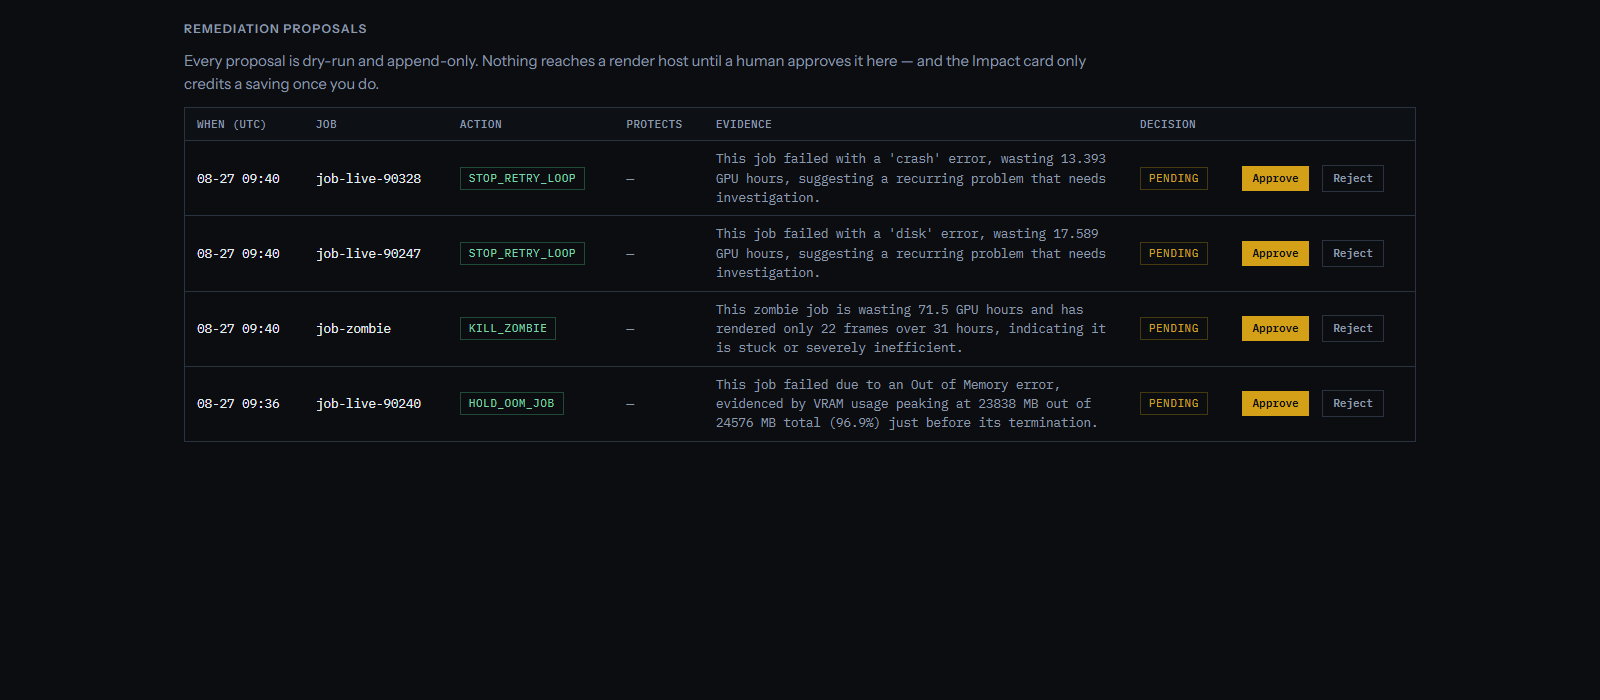
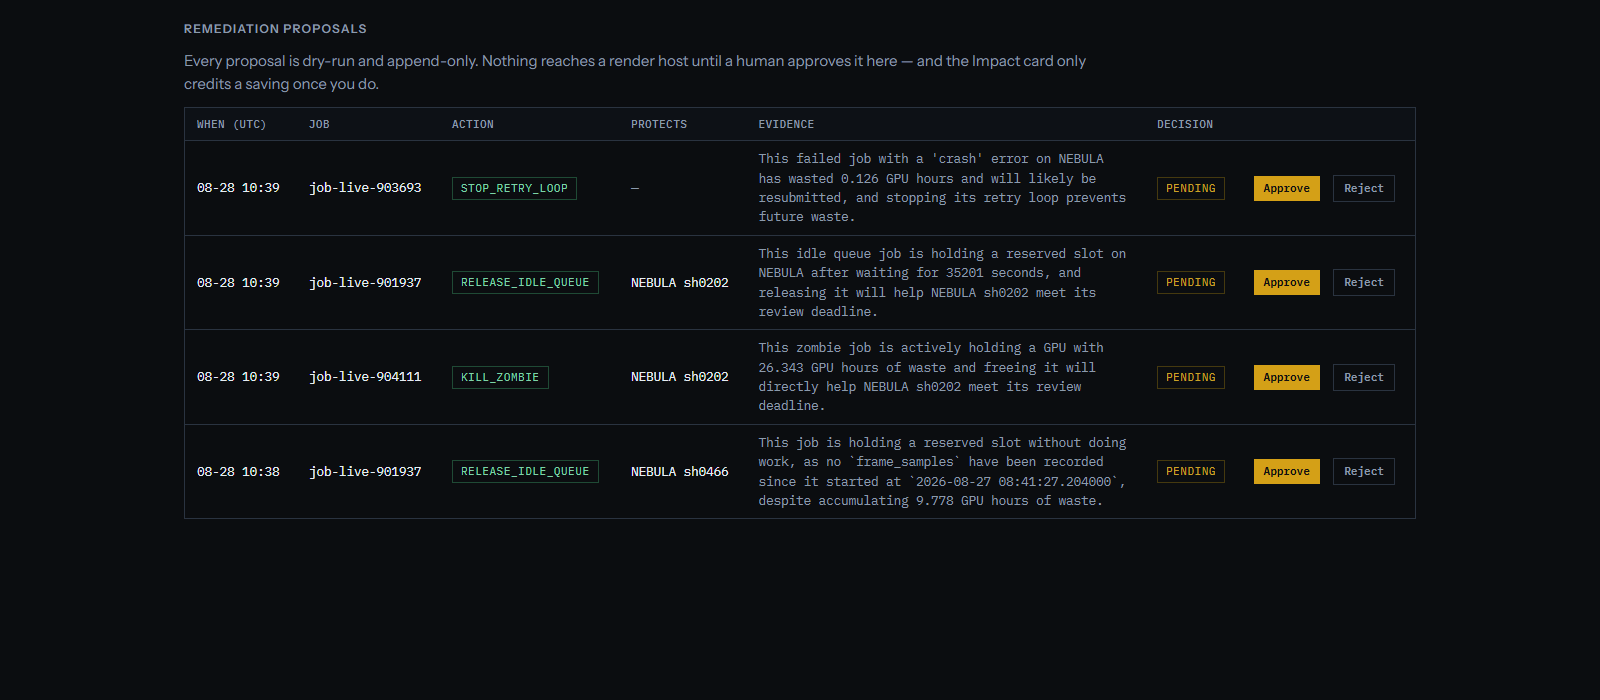
Recapture: the gallery now shows a fix tied to the review it saves.
The proposals table has three rows naming NEBULA sh0202 and sh0466 and one
honest dash on the retry loop that costs money but blocks no delivery, and
the hero above it shows sh0202 as recoverable by freeing slots on NEBULA.
That link between the board and the remediation is the product's whole claim
and this is the first capture where it is visible rather than asserted.

Captions 03 and 08 follow the images: 03 no longer says the Orchestrator
reports protecting nothing, because it no longer does, and 08 says the
PROTECTS column is board-verified. The Action Agent bullet gains the reason
that matters to a judge -- the strongest claim the product makes is the one
the model does not get to assert unchecked.

diff --git a/docs/devpost.md b/docs/devpost.md
@@ -44,7 +44,11 @@ agents on Google Cloud ADK run a fixed detect → decide → act pipeline:
   money, so a zombie on a show with a review in five hours beats a bigger
   overrun on a show with a review tomorrow.
 - The **Action Agent** records dry-run remediations with the evidence and, when
-  the job is blocking a delivery, the shot it protects.
+  the job is blocking a delivery, the shot it protects. That last claim is the
+  strongest thing the product says, so it is the one claim the model does not
+  get to assert unchecked: the shot is verified against the live delivery board
+  before the row is written, and a shot that is comfortably on track gets the
+  claim dropped rather than recorded.
 
 Nothing reaches a render host. A proposal is an auditable record, and the dollar
 figure on the page only moves when a human clicks Approve — an agent finding
@@ -211,12 +215,12 @@ below; the thumbnail should be the first one.
 | --- | --- |
 | `01-dailies-at-risk.png` | The headline is delivery, not cost: shots that will miss review, and how many come back if the stuck GPU slots are released. A quarter-billion telemetry rows behind it. |
 | `02-impact-and-waste.png` | Open waste is what an agent can still change. The full-history figure sizes the problem, annualised against the span actually measured. Approval, not detection, moves the number. |
-| `03-three-agents.png` | Detect → decide → dry-run as an ADK SequentialAgent, so no stage can be skipped. The Orchestrator names the review a fix protects — and says so plainly when it protects none. |
+| `03-three-agents.png` | Detect → decide → dry-run as an ADK SequentialAgent, so no stage can be skipped. The Orchestrator names the review each fix protects, and leaves it blank on the job that costs money but blocks no delivery. |
 | `04-mcp-evidence.png` | SQL the Sentinel composed itself, through the official mcp-clickhouse server. None of these statements exist in the repo. |
 | `05-root-cause-asof.png` | ASOF LEFT JOIN: the last telemetry sample before each OOM death. Bounds and a (host, ts) projection keep it to 2.2M rows out of a quarter-billion. VRAM at 97% is the smoking gun. |
 | `06-semantic-recall.png` | Vertex AI embeddings, cosineDistance in ClickHouse. Describe a failure in plain language and the archive returns the fix that worked. |
 | `07-detection-sql.png` | Every panel shows its own SQL and what the query cost. The badge is the real match count, not the LIMIT. Thresholds are per-cohort tDigest fences, not constants. |
-| `08-proposals-approval.png` | Dry-run and append-only. Nothing reaches a render host until a human approves it, and only then does the saving count. |
+| `08-proposals-approval.png` | Dry-run and append-only. Nothing reaches a render host until a human approves it, and only then does the saving count. The PROTECTS column is checked against the live delivery board, so a shot appears there only if it really is about to miss its review. |
 | `09-full-page.png` | The whole supervisor. |
 
 ## Built With
